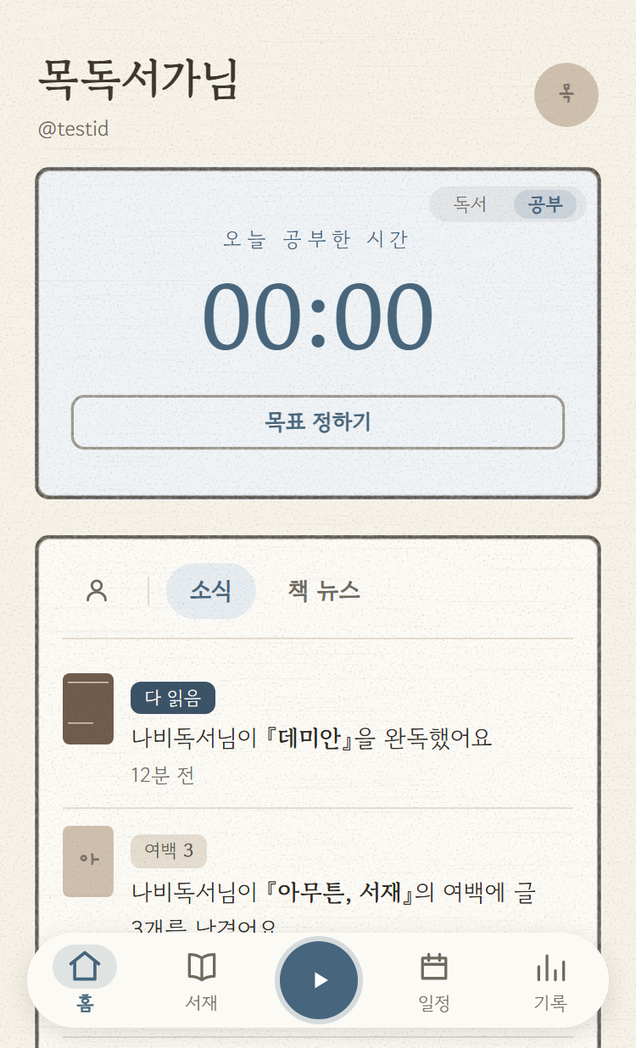
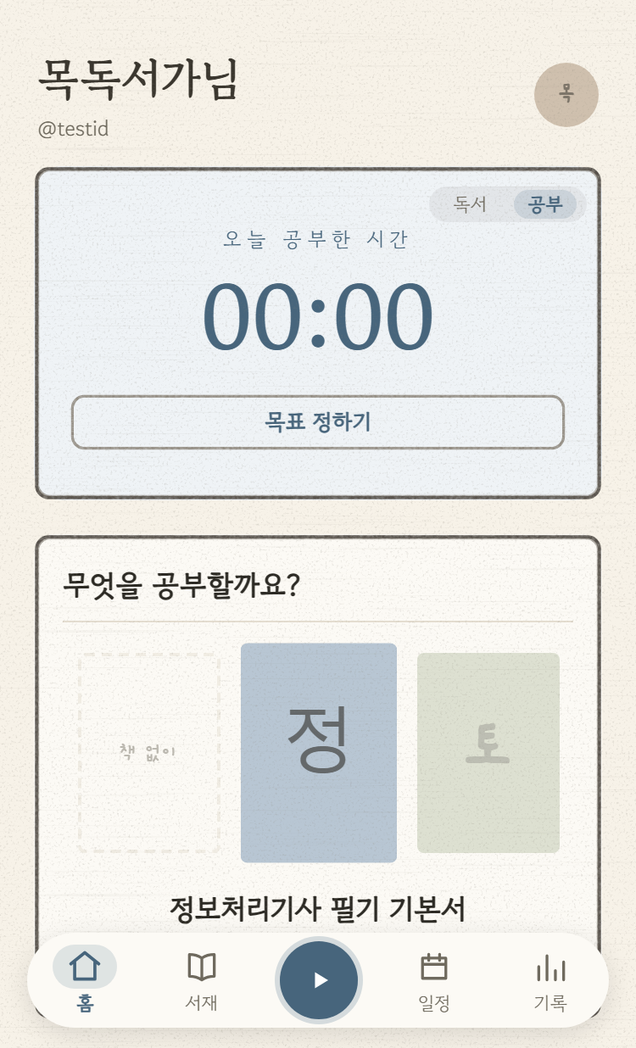
chore(미니앱): 타이머–책 연결 마무리 — 공부 컷 2장 재촬영 + T-218 「무계측 배선」 등재 (#1014)
3개 PR(#1010·#1011·#1013) 머지 뒤의 마감.

- 스토어 컷 06-study-home(「무엇을 공부할까요?」 캐러셀)·07-study-library(「3시간 20분 공부」 칩) 2장 재촬영.
  04·08·10은 날짜 이동분이라 되돌렸고 01·02·03·05는 바이트 동일.
- troubleshooting T-218: 소스 문자열 단언이 「존재」만 봐 돌연변이 8종이 초록으로 생존한 부류(2회차) + 트래커 군 등재.
  T-184 군에 11·12회차(launch.json cwd 함정 · 공용 탭 납치) 병합.
- screenshots/README 06·07 설명 갱신, changelog 한 줄.

Session-Model: claude-fable-5-1

diff --git a/claude-docs/troubleshooting.md b/claude-docs/troubleshooting.md
@@ -43,7 +43,8 @@
 | 규칙을 **설명하는 주석**이 그 규칙의 **소스 문자열 계측**을 깨뜨린다(구현은 옳은데 테스트가 붉어짐) | T-203(css 전환 규칙 → 여백 진입 게이트) · **T-215(plan.md 마커 인용 → 마커 집계)** | **3** | ✅ T-203 등재 + 계측 전 주석 제거를 절차로. ⚠ **3회차는 매체가 다르다** — T-215는 소스 테스트가 아니라 **마크다운 문서의 마커 집계**라, 예고해 둔 `readSourceWithoutComments()` 헬퍼가 애초에 안 맞는다. **그 헬퍼 승격 트리거는 「소스 문자열 계측」 얼굴 기준으로 여전히 2회**이고, 문서 얼굴엔 별도 처방을 박았다(plan.md 머리에 「옛 마커를 산문에 인용할 땐 이모지를 그대로 쓰지 말 것」). 교훈: **같은 뿌리라도 계측기가 사는 곳이 다르면 처방이 갈린다** — 회차만 세고 예고된 승격을 기계적으로 당기면 안 맞는 도구를 만든다 |
 | 배경 탭이 CSS 트랜지션을 얼려 `getComputedStyle`이 보간값을 준다 — 앱 결함으로 위장 | T-196(독서등 토글, 「일부만 낡음」으로 감별) · **T-207(로드 시 발화 — 전부 한 값이라 비대칭이 없고, 얼어붙은 시작값이 UA 기본 검정이라 「전역 스타일이 안 붙었다」로 위장)** | **2** | ⚠ **기존 승격(글로벌 CLAUDE.md 「트랜지션 건 속성은 판정 근거가 못 된다」)이 2회차를 못 막았다** — 그 문구의 감별 신호가 **「값이 일부만 낡았다」는 비대칭**인데, 상속 속성(`color`)에 걸면 화면의 거의 모든 글자가 **같은 값으로** 얼어 비대칭 자체가 없다. 그래서 감별을 관찰에서 **프로브**로 바꾼다: `body.style.setProperty(prop, <새 값>, 'important')` 직후 computed가 **안 움직이면 관측 경로가 얼어붙은 것**이다(1콜·항상 결론, 강제 layout으로는 안 풀리고 스크린샷으로 페인트를 강제해야 풀린다). 두 번째 축은 **트리거**다 — T-196의 프레이밍은 「토글을 눌렀다」인데 T-207은 **페이지 로드**였다(정적 css가 안 잡는 상속 속성을 런타임 주입 스타일이 나중에 바꿈). 그래서 코드 쪽 처방도 한 줄 생겼다: **상속 속성에 트랜지션을 걸면 그 초기값을 정적 css에서 확정한다**(로드 시 발화 제거 = 계측 신뢰도 회복 + 실사용자의 로드 페이드 제거). 훅 승격 불가(관측 시점 문제라 정적 감지 대상이 아님) |
 
-| 브라우저 자동화의 CDP 명령이 타임아웃 — 원인이 코드가 아니라 그 탭·패널의 상태다 | T-154(클로드 내부 패널 미개방) · T-179(데스크톱 크롬 기기 모드) · T-184(같은 탭 재사용, 입력에 더해 **스크린샷까지**) · 4회차(2026-08-19, T-184 후일담에 병합 — 새 탭으로 시작했는데도 도중에 상함) · 5회차(2026-08-19 독서등 검증, 같은 후일담에 병합 — 새 탭도 몇 번 만에 상해 **재발률이 낮지 않음**이 굳어짐) · 6·7회차(2026-08-19·20, 같은 후일담에 병합 — **새 절차가 두 번 연속 값을 했다**: 판정 수치를 먼저 뽑아 둬 잃은 것이 그림뿐이었다) · 8회차(2026-08-20 기록 더미, 같은 후일담에 병합 — 세 번째로 값을 했고, 이번엔 **그림을 얻고 나서 죽어** 손해가 0이었다) · **9회차(2026-08-20 둘러보기 화면, 같은 후일담에 병합 — 처음으로 탭 교체가 안 통했고 내부 브라우저 대체 경로도 T-154로 동시에 막혀 그림을 끝내 못 얻었다. 판정은 수치 선행 덕에 완결)** · **10회차(2026-08-21 세션 캐시 검증, T-201 — 이번엔 CDP가 상한 게 아니라 **어제 승격한 1순위 표면 자체가 안 떴다**: `chrome-devtools` MCP가 프로필을 배타 점유해 `The browser is already running for …chrome-profile`로 첫 호출부터 즉사. 내부 패널의 **동기 `javascript_tool` 판독**으로 우회해 판정 완결, 그림만 못 얻음)** | 10 | ✅ **예고대로 절차 승격**(CLAUDE.md 「🖥 프론트 검증」) — 검증 시작 시 `tabs_create_mcp`로 **전용 탭을 새로 연다**. ⚠ 4·5회차가 그 절차의 한계를 실측했다: 새 탭으로 시작해도 **세션 도중에 죽는다**. 절차는 유지하되(비용 0) 「한 번 열면 안전」이라는 기대는 버리고, 죽으면 그 자리에서 또 갈아탄다 — 승격 단계를 더 올릴 자리는 아니다(훅으로 감지할 수 있는 대상이 아니고, 재시도 비용이 이미 최소다). 대신 **검증 순서를 바꾸는 것이 값을 한다**: 스크린샷보다 `javascript_tool` 수치 측정을 앞에 두면(CDP를 안 타는 경로) 탭이 상해도 판정 자체는 남는다. ⚠ 3회차가 군 정의를 넓혔다: 「읽기는 되는데 **입력만**」인 줄 알았는데 `Page.captureScreenshot`도 같이 죽었다 — 안 죽는 건 **CDP를 안 쓰는 경로**(`javascript_tool`·콘솔 읽기)라, 판별 기준은 「읽기냐 입력이냐」가 아니라 **「CDP를 타느냐」**다. ⚡ **2026-08-21 — 이 군을 피하는 경로를 찾았다(T-199)**: `chrome-devtools` MCP는 확장과 **별개 크롬·별개 CDP**라 탭이 상하든 패널이 닫혔든 영향을 안 받고, 기기 모드도 `emulate` 명령으로 건다. 9회차가 끝내 못 얻은 그 그림을 첫 시도에 얻었다. 이제 순서는 **확장 1회 갈아타기 → `chrome-devtools` MCP → 수치 마감**이고, 로그인이 필요 없는 화면이면 애초에 `chrome-devtools`가 1순위다(빈 프로필이라 인증 화면엔 못 쓴다). **이 군은 이제 「예상된 비용」에서 「우회 가능」으로 내려간다**. ⚠ **하루 만에 그 1순위의 반례가 나왔다(T-201, 10회차)** — `chrome-devtools`는 전용 프로필을 **배타 점유**해서, 앞선 크롬이 그 프로필을 쥔 채 남아 있으면 첫 호출부터 통째로 안 뜬다. 「별개 CDP라 면역」은 **다른 함정에 안 걸린다는 뜻이지 항상 뜬다는 뜻이 아니다**. 그래서 계단이 하나 더 필요하다 — 두 크롬이 다 막히면 **내부 패널의 동기 `javascript_tool` 판독**이 마지막 수단이다(합성이 죽어도 동기 JS 실행·텍스트 읽기는 살아 있다). 결론은 9회차와 같다: **판정 수치를 먼저 뽑고 그림은 나중에** 두면, 어느 표면이 죽어도 잃는 건 그림뿐이다. 🌍 **2026-08-21 글로벌 승격** — 전 프로젝트 재발 스캔에서 boardgame-hub에도 같은 군이 2건(T-003 `visibilityState` 정지 · T-008 클릭·스크린샷·타이머 동시 사망) 발견돼 **2개 프로젝트 11회**가 됐다. 규칙 본체를 글로벌 `~/.claude/CLAUDE.md` 「🖥 브라우저 확인」으로 올리고, 이 레포 CLAUDE.md엔 포인터 + 고유분(목 모드 포트·스토어 스크린샷)만 남겼다. ⚡ **합치면서 우리가 몰랐던 절반이 붙었다** — 같은 원인이 스크린샷·클릭만 죽이는 게 아니라 **`setTimeout`/`setInterval`을 스로틀링하고 `document.visibilityState`를 `'hidden'`으로 만들어 앱 폴링까지 설계대로 멈춘다**(그래서 "화면이 굳었다"로 보이고 앱 버그로 오진한다). 우회는 게터 덮어쓰기 |
+| 소스 문자열 단언이 공허하다 — 「존재」만 봐서 선언문·머리 호출·목 우회에 걸려 배선을 지워도 초록(무계측 배선) | 1회차(2026-09-01 공부 서재 PR-2 리뷰 W3 — 항목 없이 changelog에만, 「무계측 배선」이라 이름만 붙임) · **T-218(2회차, 2026-09-02 타이머–책 연결 3개 PR 리뷰에서 8종 생존)** | 2 | 소프트 — T-218 재발방지 ①~③(건수·전체 인자열 · 돌연변이는 리뷰어가 고른다 · 목 왕복은 클라 함수 경유). **3회째면 CLAUDE.md 「미니앱 테스트 하니스」 절에 승격**(정적 감지 불가라 훅은 아님) |
+| 브라우저 자동화의 CDP 명령이 타임아웃 — 원인이 코드가 아니라 그 탭·패널의 상태다 | T-154(클로드 내부 패널 미개방) · T-179(데스크톱 크롬 기기 모드) · T-184(같은 탭 재사용, 입력에 더해 **스크린샷까지**) · 4회차(2026-08-19, T-184 후일담에 병합 — 새 탭으로 시작했는데도 도중에 상함) · 5회차(2026-08-19 독서등 검증, 같은 후일담에 병합 — 새 탭도 몇 번 만에 상해 **재발률이 낮지 않음**이 굳어짐) · 6·7회차(2026-08-19·20, 같은 후일담에 병합 — **새 절차가 두 번 연속 값을 했다**: 판정 수치를 먼저 뽑아 둬 잃은 것이 그림뿐이었다) · 8회차(2026-08-20 기록 더미, 같은 후일담에 병합 — 세 번째로 값을 했고, 이번엔 **그림을 얻고 나서 죽어** 손해가 0이었다) · **9회차(2026-08-20 둘러보기 화면, 같은 후일담에 병합 — 처음으로 탭 교체가 안 통했고 내부 브라우저 대체 경로도 T-154로 동시에 막혀 그림을 끝내 못 얻었다. 판정은 수치 선행 덕에 완결)** · **10회차(2026-08-21 세션 캐시 검증, T-201 — 이번엔 CDP가 상한 게 아니라 **어제 승격한 1순위 표면 자체가 안 떴다**: `chrome-devtools` MCP가 프로필을 배타 점유해 `The browser is already running for …chrome-profile`로 첫 호출부터 즉사. 내부 패널의 **동기 `javascript_tool` 판독**으로 우회해 판정 완결, 그림만 못 얻음)** · **11·12회차(2026-09-02 타이머–책 연결, T-218 ④에 병합 — 이번엔 탭이 상한 게 아니라 **엉뚱한 서버를 보고 있었다**: `preview_start`가 `.claude/launch.json`을 세션 cwd에서 찾아 남의 워크트리 vite를 5300에 띄운 것 + 다른 세션이 공용 `seed` 탭을 자기 포트로 돌린 것. 둘 다 「내 변경이 화면에 없다」로 나왔고 `fetch('/src/<파일>')`의 신규 ASCII 식별자 유무로 갈랐다)** | 12 | ✅ **예고대로 절차 승격**(CLAUDE.md 「🖥 프론트 검증」) — 검증 시작 시 `tabs_create_mcp`로 **전용 탭을 새로 연다**. ⚠ 4·5회차가 그 절차의 한계를 실측했다: 새 탭으로 시작해도 **세션 도중에 죽는다**. 절차는 유지하되(비용 0) 「한 번 열면 안전」이라는 기대는 버리고, 죽으면 그 자리에서 또 갈아탄다 — 승격 단계를 더 올릴 자리는 아니다(훅으로 감지할 수 있는 대상이 아니고, 재시도 비용이 이미 최소다). 대신 **검증 순서를 바꾸는 것이 값을 한다**: 스크린샷보다 `javascript_tool` 수치 측정을 앞에 두면(CDP를 안 타는 경로) 탭이 상해도 판정 자체는 남는다. ⚠ 3회차가 군 정의를 넓혔다: 「읽기는 되는데 **입력만**」인 줄 알았는데 `Page.captureScreenshot`도 같이 죽었다 — 안 죽는 건 **CDP를 안 쓰는 경로**(`javascript_tool`·콘솔 읽기)라, 판별 기준은 「읽기냐 입력이냐」가 아니라 **「CDP를 타느냐」**다. ⚡ **2026-08-21 — 이 군을 피하는 경로를 찾았다(T-199)**: `chrome-devtools` MCP는 확장과 **별개 크롬·별개 CDP**라 탭이 상하든 패널이 닫혔든 영향을 안 받고, 기기 모드도 `emulate` 명령으로 건다. 9회차가 끝내 못 얻은 그 그림을 첫 시도에 얻었다. 이제 순서는 **확장 1회 갈아타기 → `chrome-devtools` MCP → 수치 마감**이고, 로그인이 필요 없는 화면이면 애초에 `chrome-devtools`가 1순위다(빈 프로필이라 인증 화면엔 못 쓴다). **이 군은 이제 「예상된 비용」에서 「우회 가능」으로 내려간다**. ⚠ **하루 만에 그 1순위의 반례가 나왔다(T-201, 10회차)** — `chrome-devtools`는 전용 프로필을 **배타 점유**해서, 앞선 크롬이 그 프로필을 쥔 채 남아 있으면 첫 호출부터 통째로 안 뜬다. 「별개 CDP라 면역」은 **다른 함정에 안 걸린다는 뜻이지 항상 뜬다는 뜻이 아니다**. 그래서 계단이 하나 더 필요하다 — 두 크롬이 다 막히면 **내부 패널의 동기 `javascript_tool` 판독**이 마지막 수단이다(합성이 죽어도 동기 JS 실행·텍스트 읽기는 살아 있다). 결론은 9회차와 같다: **판정 수치를 먼저 뽑고 그림은 나중에** 두면, 어느 표면이 죽어도 잃는 건 그림뿐이다. 🌍 **2026-08-21 글로벌 승격** — 전 프로젝트 재발 스캔에서 boardgame-hub에도 같은 군이 2건(T-003 `visibilityState` 정지 · T-008 클릭·스크린샷·타이머 동시 사망) 발견돼 **2개 프로젝트 11회**가 됐다. 규칙 본체를 글로벌 `~/.claude/CLAUDE.md` 「🖥 브라우저 확인」으로 올리고, 이 레포 CLAUDE.md엔 포인터 + 고유분(목 모드 포트·스토어 스크린샷)만 남겼다. ⚡ **합치면서 우리가 몰랐던 절반이 붙었다** — 같은 원인이 스크린샷·클릭만 죽이는 게 아니라 **`setTimeout`/`setInterval`을 스로틀링하고 `document.visibilityState`를 `'hidden'`으로 만들어 앱 폴링까지 설계대로 멈춘다**(그래서 "화면이 굳었다"로 보이고 앱 버그로 오진한다). 우회는 게터 덮어쓰기 |
 | Windows aws CLI ↔ 한글 = CP949 치명 실패(요청 paramfile 디코드 불가 · 응답 인코드 불가) | (요청 방향: 2026-08-18 정기작업 지시서에 선기록) · T-186(응답 방향) | 2 | ⚠ prose(T-186) — **한 방향만 막으면 반대 방향에서 또 밟는다**. 지시서가 「요청 JSON에 한글 넣지 마라」를 이미 못 박아 뒀는데도, 응답에 한글이 실려오는 것까지는 안 적혀 있어 그대로 죽었다. 해법이 양방향 공통(원격에서 `base64 -w0` → 로컬 디코드)이라 규칙도 **"aws CLI와는 ASCII만 주고받는다"** 한 줄로 합친다. hookify warn 후보 = `aws ssm send-command`에 `base64` 부재 시 경고 — 빈도가 낮아 보류, 3회차에 승격 |
 | 목 픽스처가 서버 계약을 재현 못 해 **정상 경로가 목에서만 실패**(자기모순 → 기능 확장 뒤 협소) | T-175(1회차 자기모순 · 2회차 책축 경로 누락) | 2 | ⬜ 미승격 — 발견 지점이 브라우저 수동 게이트뿐이라 훅·정적 검사로 못 잡는다. 3회차면 「목↔서버 계약 대조 테스트」 도입 검토 |
 
@@ -2717,3 +2718,4 @@ git worktree remove ../BookTimer-<task>
 | 2026-08-25 | T-215 (**닫은 항목의 옛 마커를 산문에 「인용」하면 그 이모지가 다음 감사의 집계에 그대로 잡힌다 — 설명이 계측 대상이 된다** / **3회차(T-203 군)** / 증상: plan.md 마커 감사에서 `🔜` 8건을 닫고 재집계했더니 **8이 아니라 10**이 나왔다. 남은 두 줄을 열어 보니 둘 다 내가 방금 쓴 문장이었다 — 「이 헤더는 2026-08-25까지 「진행 중 🔜 …」였다」와 「문의 대기 🔜로 일주일 넘게 남아 있었다」. **닫았다는 사실을 설명하려고 옛 마커를 그대로 인용한 것이 유령 항목 2건을 만들었다.** 다음 감사가 이 줄을 열어 보고서야 「아, 이건 인용이네」를 알게 되는데, 그 확인 비용이 정확히 감사가 없애려던 비용이다. / 원인: 마커 감사의 계측기는 **파일 전체에 대한 이모지 grep**이다. 그 계측기에겐 「할 일을 가리키는 마커」와 「마커를 설명하는 인용」이 구별되지 않는다 — 둘 다 같은 코드포인트다. T-203과 같은 뿌리다: 거기선 규칙을 **설명하는 주석**이 그 규칙의 소스 문자열 계측에 걸렸고, 여기선 마커를 **설명하는 산문**이 마커 집계에 걸렸다. ⚠ **좋은 문서일수록 위험하다**는 성질까지 같다 — 「무엇이 왜 낡았는가」를 친절히 남길수록 옛 마커를 인용할 이유가 생긴다. / 해결: 인용을 **말로 풀었다**(`🔜` → 「다음 할 일 마커」·「다음-할-일 마커를 달고」). 이모지를 지우는 것이 아니라 **의미는 남기고 코드포인트만 뺀다**. 그리고 이 함정을 plan.md **머리**에 못 박았다 — 마커가 세 어휘(`⬜`·`🔜`·마커 없는 `- [ ]`)라는 사실과 나란히 둬서, 다음 감사자가 세는 법과 함정을 한자리에서 읽게 했다. / 재발방지: ① **문서의 마커·토큰을 산문에서 인용할 땐 그 문서를 세는 계측기가 무엇인지 먼저 생각한다** — 세는 대상과 같은 문자를 쓰면 인용이 곧 오염이다. ⚠ **다만 「전부 빼라」는 틀렸다 — 이 항목을 쓰는 중에 그걸 배웠다.** plan.md 머리에 「마커는 세 어휘다」라는 **범례**를 박으면서 마커 문자를 또 2개 심었고, 재집계가 23이 아니라 25로 나왔다. 그런데 범례는 마커를 **실물로 보여 줘야** 쓸모가 있어 뺄 수가 없다. 그래서 처방이 둘로 갈린다: **실물이 필요 없는 인용은 말로 풀고(유령), 실물이 필요한 범례는 남기되 「집계에서 뺄 개수」를 그 자리에 상수로 적는다.** 후자는 결함이 아니라 **명시해야 할 오프셋**이다. ② **닫는 작업 뒤엔 반드시 재집계한다** — 이 건은 「9건 닫았다」로 끝냈으면 영영 몰랐고, 세어 보니 숫자가 안 맞아 드러났다. **닫은 개수를 세지 말고 남은 개수를 세라**(전자는 내 주장, 후자는 파일의 상태다). ③ ⚠ **T-203 트래커에 예고된 `readSourceWithoutComments()` 헬퍼 승격을 이 회차로 당기지 않는다** — 그 헬퍼는 「소스 파일 + 주석」 얼굴을 위한 것이라 마크다운 마커 집계엔 안 맞는다. 그 얼굴은 여전히 2회차다. **같은 뿌리라도 계측기가 사는 곳이 다르면 처방이 갈린다** — 회차만 세고 예고된 승격을 기계적으로 당기면 안 맞는 도구가 나온다. ④ 훅 승격 불가 — 「이 이모지가 마커인가 인용인가」는 정적 판정 대상이 아니다(같은 문자다). / **관련**: T-203(같은 뿌리·다른 매체 — 소스 주석 ↔ 문서 산문) · T-211(낡은 문장 군 — 이번 감사가 그 군을 닫으려다 이 함정을 밟았다) · T-212(계측기가 대상을 안 잡아도 초록 — 이쪽은 반대로 **안 잡아야 할 것을 잡는다**)) |
 | 2026-08-29 | T-216 (**TDS `Text`의 `style.textAlign`은 DOM에 안 실린다 — 정렬이 조용히 왼쪽에 남고, 같은 함정이 5곳에 흩어져 있었다** / **2회차(T-198 재발)** / 증상: 미니앱 5곳에서 `<Text style={{ textAlign: 'center' }}>`로 준 가운데 정렬이 화면에선 왼쪽이었다. 에러도 경고도 없다 — **무성 실패**다. 목 모드 실측(390×844@3x, 2026-08-29): 서재 빈 탭 안내 2곳 · 「모두의 여백」 빈 목록 · 개인 여백 빈 목록이 모두 computed `text-align: start`. ⚠ **T-198이 이미 이 함정을 등재해 뒀는데도 다섯 자리가 그대로 남아 있었다** — 1회차가 자기 한 곳만 고치고 **같은 패턴의 나머지를 훑지 않아서**다. / 원인: TDS `Text`는 `style`을 그대로 넘기지 않고 **키를 골라 싣는다** — `textAlign`은 걸러지고 `display`는 자기 값(`inline-block`)으로 덮인다. `wordBreak`·`lineHeight`·`color`·`marginTop`·`padding`은 통과한다(#988 probe 렌더 실측). / 해결: **바깥에 평범한 div를 두고 그 div가 `textAlign`을 갖는다**(`Goal.tsx:152~162` 선례 — 헬퍼 컴포넌트를 만들 일이 아니다). 블록 배치용 키(`marginTop`·`padding`)는 div로 옮기고 글자 속성(`wordBreak`)만 `Text`에 남긴다. ⚠ **부모가 이미 `textAlign: center`면 래퍼를 새로 만들지 않는다** — `Library.tsx` 격자 제목이 그 경우라(셀 div·button이 이미 가운데) 실측이 `center`였고, **죽은 키만 지웠다**. 실측 없이 소스만 보고 고쳤으면 쓸모없는 래퍼를 하나 더 만들 뻔했다. / 재발방지: ① **T-198의 「단위 테스트가 원리상 못 잡는다」는 틀렸다 — 이 회차가 반증했다.** 그 말은 정렬을 `Text`에 주던 시절엔 맞았지만(걸러져서 마크업에 안 찍히니 단언할 대상이 없다), **고친 뒤엔 래퍼 div의 `text-align:center`가 정적 마크업에 그대로 남는다** — 즉 **해결 형태를 계측**하면 된다. ⚠ 단 두 번 공허했다: ⓐ 통짜 `toContain('text-align:center')`는 같은 페이지의 격자 셀·탭 줄에 걸려 **수정 전에도 통과**하고, ⓑ 글자 수 창(`at-200`·`at-400`)은 TDS가 `Text` 앞에 끼워 넣는 `<style>` 블록에 먹혀 400자로도 래퍼에 못 닿는다. 판별력이 생긴 형태는 **문구를 가장 가까이 감싼 div**뿐이다: `markup.slice(markup.lastIndexOf('<div', at), at)`. ② **이 함정을 하나 만나면 그 자리만 고치지 말고 리포 전체에서 `<Text` + `textAlign`을 훑는다** — 1회차가 그러지 않아 2회차가 5곳으로 자랐다. ③ 훅 승격 불가 — 「이 `textAlign`이 죽은 키인가」는 부모의 상속까지 봐야 정해져 정적 판정 대상이 아니다. ④ **후일담(2026-08-30) — 「죽은 키」 판정도 실측 없이는 틀린다.** 이 회차가 스윕에서 「`Home.tsx:809`의 `textAlign: 'left'`는 기본값과 같아 동작이 없다」고 적고 남겨 뒀는데, **틀렸다** — 그 자리는 `<button>` 안이고 **UA 기본 스타일이 `button { text-align: center }`**라, 걸러진 `'left'`가 되돌리려던 것이 바로 그 가운데 정렬이었다(목 모드 실측: 제목·버튼 computed 모두 `center`). 즉 **래퍼가 필요없다는 판정(위 ⚠ 격자 제목)과 죽은 키라는 판정은 근거가 다르다** — 전자는 부모가 원하는 값을 이미 갖고 있어서고, 후자는 부모의 값이 우연히 같아서다. **지우기 전에 부모의 computed를 잰다.** 처방은 `<button>`이면 래퍼를 새로 만들지 말고 **버튼 자신에게 `textAlign`을 준다**(리포의 다른 버튼 5곳이 이미 그 관례다 — `Home.tsx:864`·`Explore.tsx:169`·`Library.tsx:1014`·`Story.tsx:1287`·`ui.tsx:772`). 이 군은 위 「맨 `<button>`의 UA 기본값이 안쪽 콘텐츠로 샌다」(T-177·T-178)와 **교차**한다 — TDS가 키를 걸러 UA 기본이 드러나는 자리다. / **관련**: T-198(1회차 — 기록 화면 `textAlign: 'right'`) · T-144(TDS 주입 CSS로 정적 마크업 단언이 공허해짐 — ⓐ가 그 얼굴이다) · T-149(공허한 테스트 군)) |
 | 2026-09-01 | T-217 (**표시값을 clamp된 파생 상태에서 역산하면 그 clamp가 표시값의 상한이 된다 — 측정 중엔 맞고 「멈추는 순간」에만 틀린다** / **1회차** / 증상: 사용자 제보. 하루 목표 1시간인데 **1시간을 넘겨 계속 읽으면 히어로 숫자가 제대로 올라가다가, 중지하는 순간 정확히 「1시간」으로 바뀐다.** 이어서 읽으면 또 제대로 올라가고 또 중지할 때 1시간이 된다. ⚠ **세션 기록은 내내 정확했다** — 「기록은 맞는데 타이머만 틀리다」는 비대칭이 곧 원인의 지문이다(저장 경로가 아니라 표시 경로의 결함). / 원인: 「오늘 읽은 시간」이 저장된 사실이 아니라 **부채의 역산**이었다. 서버 `WeeklyDebtCalculator`가 `rawDeficit = max(0, 목표 − 읽은 양)`으로 **0에서 바닥**을 치고, 클라(`todayProgress`·`computeProgress`)가 `todayRead = 목표 − 오늘부채`로 되돌리니 표시값이 **목표에서 천장**을 친다 — 즉 서버의 하한 clamp가 화면의 **상한**으로 그대로 옮겨 앉는다. ⚠ **결함이 「멈춘 순간에만」 보인 이유가 핵심이다**: 측정 중엔 클라가 스냅샷에서 경과를 매초 빼(`remainingSeconds - elapsed`) 부채를 음수로 밀기 때문에 역산이 우연히 옳은 값을 낸다. 라이브 보정이 결함을 정확히 상쇄해, **측정 중 화면만 보면 영영 안 보인다.** ⚠ **정보 소실이 겹쳐 클라 단독 수정은 원리상 불가능하다** — 목표 초과분은 backward 재분배로 **과거 날 상환에 소비**되어, 빚을 다 갚은 뒤의 초과분은 응답 어디에도 흔적이 없다. ⚠ 같은 뿌리로 「+N분 더 읽었어요」 배너도 **밀린 빚이 없으면 `overflow = max(0, 목표−목표) = 0`이라 중지 후 뜬 적이 없었다** — 아무도 신고하지 않은 채 죽어 있었다. / 해결: 서버가 이미 계산해 두고 안 보내던 원시값(`DayDebtTrace.readSeconds()`)을 `WeeklyDebt.todayReadSeconds`로 실어 `DashboardModel.LiveState` **한 곳**을 지나게 했다 — 그 배선점 하나로 `/api/dashboard`·start·stop 응답이 함께 따라온다. 클라는 `todayRead = todayReadSeconds + 경과`, `achieved = todayRead >= 목표`. **남은시간·게이지는 그대로 부채 스냅샷에서 만든다**(카운트다운은 0에서 멈추는 게 맞다). 진행률은 옛 분자 `목표+밀린−남은`이 `min(읽은, 최대치)`와 **항등**이라 clamp 후 값이 같음을 확인하고 옮겼다. / 재발방지: ① **표시값이 「사실」인지 「파생」인지 먼저 가른다** — 파생이면 그 원천의 치역이 표시 범위를 덮는지 본다. **한쪽이 clamp된 값에서 역산하는 순간 그 clamp는 화면의 반대쪽 한계가 된다**(하한 → 상한). 원천이 정보를 버리면 역산은 복원이 아니다. ② **라이브 보정이 걸린 화면은 「멈춘 상태」를 따로 검증한다** — 이 결함이 오래 숨은 유일한 이유가 elapsed 보정이 결함을 상쇄한 것이고, 테스트에도 `elapsed = 0`(정지 직후 스냅샷) 케이스가 없었다. 카운트업·카운트다운을 만들면 **측정 중 / 정지 두 상태를 짝으로** 계측한다. ③ ⚠ **픽스처가 파생 관계를 인코딩하고 있으면 그 테스트는 구현을 베낀다** — 기존 테스트 다수가 「읽은 양」을 `remainingSeconds`로만 표현하고 있어서 **옛 역산을 정답으로 못 박은 채 전건 초록**이었다. 서버가 두 값을 짝으로 주는 것이면 픽스처도 짝으로 준다(그러면 짝이 어긋나는 조합 자체를 테스트가 표현할 수 있게 된다). ④ **같은 식이 두 클라이언트에 복제돼 있으면 하나만 고치는 것은 고친 것이 아니다** — 웹 `computeProgress`와 미니앱 `todayProgress`가 같은 역산을 갖고 있어 함께 고쳤다(T-216 ②와 같은 처방: 한 자리를 만나면 리포 전체를 훑는다). ⑤ 훅 승격 불가 — 「이 표시값이 역산인가」는 정적 판정 대상이 아니다. / **관련**: N-059(소급 함정 — 표시 상태를 **가변 파라미터**에서 매번 재유도하면 파라미터를 건드릴 때 과거 판정까지 다시 쓰인다. 같은 뿌리의 **시간축** 얼굴이고, 이쪽은 **치역** 얼굴이다. 다만 그건 학습노트라 이 표의 회차엔 안 센다) · T-212(계측기가 대상을 안 잡아도 초록 — 이쪽은 계측기가 **틀린 정답을 못 박은** 채 초록이었다) · T-216(같은 함정이 여러 자리에 흩어져 1회차가 자기 자리만 고친 군)) |
+| 2026-09-02 | T-218 (**소스 문자열 단언은 「존재」가 아니라 「건수·전체 인자열」로 잡는다 — `toContain('식별자')`는 선언문에 걸려 배선을 통째로 지워도 초록이다(무계측 배선)** / **2회차(2026-09-01 공부 서재 PR-2 리뷰 W3 재발 — 그때는 이름만 붙였고 이번에 부류로 굳었다)** / 증상: 타이머–책 연결 3개 PR(#1010·#1011·#1013)의 독립 리뷰가 돌연변이를 재주입하자 **8종이 전 스위트 초록인 채 생존**했다 — App→MainTabs 프롭 전달을 통째로 지워도(`toContain('setStudyBookId')`가 `useState` **선언문**에 걸려 통과), `timerStartBookId(…)`의 셋째 인자를 독서 슬롯 `homeBookId`로 바꿔도(`toContain('startStudy(timerStartBookId(')`가 여는 괄호까지만 재서 통과 — 설계가 「그럴듯한 사고 ②」로 이름까지 붙인 결함이고 `tsc`도 통과), 와이어 키 `bookId`→`book`으로 바꿔도(목 왕복 테스트가 `mockRequest`를 직접 불러 클라이언트 함수의 body를 한 번도 안 지남), 홈 기본 선택 호출을 `null`로 굳혀도, 교체 성공 경로의 `onStudyChange(next)`·교체 토스트의 `mode`·`body.study-mode`의 `--accentPill` 선언을 지워도 초록이었다. 구현자는 매 PR 돌연변이 4~5종을 「전부 사살」로 보고했는데 **자기가 고른 돌연변이만 죽였을 뿐** 리뷰어가 고른 것은 살아 있었다. / 원인: 정적 렌더 하니스(jsdom 없음, T-149)라 배선을 **소스 문자열**로 잠그는데, 그 단언이 ① 식별자 **존재**만 봐서 선언문·다른 호출부에 걸리고 ② 호출의 **머리만** 봐서 인자 교체를 못 보고 ③ 목 왕복이 클라이언트 함수를 **우회**해 전송 형태를 안 보며 ④ 순수 함수 테스트는 「화면이 그 함수를 부르는지」를 모르고 ⑤ 마크업 단언은 `var(--token, 폴백)` 도입 뒤 폴백 리터럴이 늘 실려 되살릴 수 없다. 다섯 다 「테스트가 초록 = 배선이 있다」를 말하지 않는다. / 해결: ① 배선 단언은 **건수**(`match(/setStudyBookId/g)).toHaveLength(2)` = 선언 + 전달)나 **전체 인자열**(`'startStudy(timerStartBookId(study.books ?? [], study.recentBookId ?? null, studyBookId))'`)로 ② 전송 형태는 `api.ts` 소스에서 `request('/api/…', { body: { bookId } })`를 그대로 ③ 화면이 함수를 부르는지는 정적 렌더에 실리는 속성(`data-selected-book`)으로 ④ CSS 토큰은 마크업이 아니라 css 블록 슬라이스에서 **선언 자체**를 단언. 전부 붙인 뒤 같은 돌연변이를 재주입해 **각각 정확히 한 단언만** 죽는 것을 확인했다(주입·되돌림은 grep 건수로 단언). / 재발방지: ① **소스 문자열 단언을 쓸 땐 「이 문자열이 선언문·다른 호출부에도 매치되는가」를 먼저 묻는다** — 매치되면 건수나 전체 호출식으로 좁힌다. ② **돌연변이는 구현자가 아니라 리뷰어가 고른다** — 구현자의 「N종 전부 사살」은 자기 계측기의 사각을 재지 못한다(같은 가정을 공유하므로). 밝은선 리뷰(±150줄)의 돌연변이 재실측이 이 부류를 3개 PR에서 연속으로 잡았다 — 리뷰 게이트의 값이 실측으로 증명된 자리다. ③ 목 왕복 테스트는 **클라이언트 함수(`startStudy`)를 통해** 부른다 — `mockRequest`를 직접 부르면 목이 계약을 아는지만 재고 클라가 계약을 지키는지는 안 잰다. ④ 곁다리(관측 경로 — T-184 군 11·12회차): `preview_start`는 `.claude/launch.json`을 **세션 cwd**에서 찾아 워크트리 세션이면 남의 워크트리 서버를 띄우고, 다른 세션이 공용 `seed` 탭을 자기 포트로 돌린다 — 둘 다 「내 변경이 화면에 없다」로 나온다. 판별은 `location.href` + `fetch('/src/<파일>')`에 신규 **ASCII 식별자** 유무(한글 리터럴은 esbuild가 `\uXXXX`로 이스케이프해 못 쓴다), 처방은 그 워크트리에서 `npm --prefix miniapp run dev:mock -- --port <고유>` + `tabs_create`로 전용 탭. ⑤ 곁다리 2: 리베이스로 두 커밋(행 추가 → 같은 행 보강)을 옮기면 `merge=union`이 초판·최종본을 **둘 다** 남긴다 — 이번 3개 PR에서 **2회** 났다(T-210 재발, 훅이 push에서 막았다). / **관련**: T-149(정적 렌더라 부정 단언 금지 — 이쪽은 긍정 단언도 공허할 수 있다는 후속) · T-212(계측기가 대상을 안 잡아도 초록) · T-184(관측 경로 군) · T-210(changelog union 중복)) |

diff --git a/claude-docs/changelog.md b/claude-docs/changelog.md
@@ -862,3 +862,4 @@
 | 2026-09-02 | **feat(공부): 공부 측정에 책을 붙인다 (PR-1 서버) — V82 `book_id` + start/tag-book/active/book 3문 + 책별 누적 시간** — 공부 서재(V81)가 생겨 연결할 대상이 있는데 타이머엔 대상이 없었다(컬럼도, start 파라미터도, 태깅 문도 0). 독서와 **같은 3단**을 연다(사용자 결정): 시작 시 선택 · 종료 후 태깅 · 측정 중 교체. ① **V82 `study_session.book_id`**(nullable, FK → `study_book`, `ix_study_session_book`) — `on delete set null`을 **안 걸었다**: 메인 스위트는 Hibernate DDL이라 FK 옵션이 거기 없어 두 환경이 갈리고, 맞추려면 `@OnDelete`까지 달아 규칙 출처가 둘이 된다. 대신 독서 선례대로 앱 코드 `unlinkBook`이 푼다(책을 지워도 시간은 남는다 — 당일 합·달력은 `book`을 아예 안 본다). ② **엔티티 가드는 독서 + 하나**: `tagBook`은 null 거부·재태깅 거부에 더해 **진행 중 세션도 거부**한다(재는 도중은 `changeBook`의 문이다 — 독서엔 그 검사가 없지만 같은 실수를 되풀이할 이유가 없다), `changeBook`은 종료 세션 거부·null 허용(「책 없이」 복귀). ③ **API 3문** — `start`가 `@RequestBody(required = false)`인 것이 **하위호환의 핵심**이다: 12차 라이브 번들은 `{}`를, 더 옛 클라이언트는 바디 없이 보내므로 required면 배포 창 동안 공부 시작이 통째로 400이 된다(둘 다 200을 못 박는 테스트 1건). `tag-book`은 책·세션 **이중 IDOR**(둘 다 404 마스킹, 독서 책장의 id도 여기선 404 — 테이블 경계)이고 `active/book`은 세션 좌표가 아예 없어 세션 IDOR이 구조적으로 성립하지 않는다. ④ **응답은 전부 `StudyState`**(래퍼 신설 없음 — 12차 번들이 stop 응답을 `StudyState`로 읽어 감싸면 서버 선배포 창에서 옛 앱의 시계가 NaN이 된다). 맨 뒤 4필드 추가: `activeBook`·`recentBookId`·`books`·`untaggedSessionId`. **태깅 좌표는 stop 응답에서만 non-null**이다 — 대시보드가 최근 미태깅 세션을 실어 오면 앱에 들어올 때마다 시트가 유령처럼 뜬다(start·대시보드가 언제나 null임을 별도 테스트로 못 박음). ⑤ **책별 누적** `StudyBookRow.totalSeconds`(맨 뒤) — 집계 쿼리는 독서 `sumSecondsByBook`과 **글자 그대로 같은 조건**이고 `BookSecondsRow`도 재사용한다(조건이 갈리면 두 화면이 다른 초를 말한다). 0초는 부재라 키가 아예 없고 화면이 칩을 안 그린다. ⑥ **활성 finder를 fetch join으로** 바꿨다(이름·시그니처 유지) — `activeBook.title`을 트랜잭션 밖에서 직렬화하므로 lazy면 그 자리가 예외다. 📍 **RED를 먼저 확인**했다: 엔티티 메서드 없음 → **컴파일 19 errors**, 서비스 15 errors, Flyway 스키마 검증 **`missing column [book_id] in table [study_session]`**(엔티티만 고치고 DDL을 빠뜨리면 메인 스위트는 초록인 채 운영에서만 깨지는 부류라 마이그레이션 테스트가 유일한 계측기다) → 구현 → GREEN. **돌연변이 7종 전부 사살**(주입 여부를 매번 grep 0건으로 단언): `required=false` 제거 → 하위호환 테스트 포함 14건 사망 / `unlinkBook` 제거 → 삭제 테스트만 사망 / `findByIdAndUser`→`findById` → 남의 세션 태깅 404 테스트 + 서비스 2건 사망(남의 기록이 내 책에 붙는다) / `untaggedSessionId` 항상 id → 「책 걸고 stop이면 null」만 사망. ⚠ **독서 경로 diff 0줄 실측**(`ReadingSession*`·`Book`·`BookService` 전부) — `DashboardApiController`는 study 블록 조립 인자 3줄뿐. 검증(보고 시점 재측정): 전체 **2022건 green**(실패·에러 0), 신규 테스트 **46건**. **실서버 왕복도 확인**했다(bootRun + 실 MySQL + Flyway 82개 적용): 로그가 `open-in-view is enabled by default`를 찍은 채 `start {bookId:1}` → `activeBook.title` 정상 직렬화, 대시보드 재조회도 동일, **LazyInitializationException 0건**, 책 걸고 stop → `untaggedSessionId: null`. 끝나고 8080·gradle 데몬·MySQL 컨테이너 전부 반납. ⚠ MockMvc는 `ResponseStatusException`을 HTML 에러 페이지로 렌더해 **문구 자체는 관측이 안 된다**(레포 전체에 그 단언이 없는 이유) — 상태 코드만 잠갔다. 미니앱(PR-2·PR-3)은 별도 PR, 배포는 그 뒤 1회. 🔎 **독립 리뷰 반영 + #1012 합류**: 리뷰 도중 `origin/main`이 「공부 세션 자정 분할」(#1012)로 전진해 **설계 전제(「공부엔 분할이 없다」)가 깨졌다** — 리베이스하며 두 기능을 화해시켰다. ① **조각이 책을 상속**한다(`endSplitAndSave`가 `open.getBook()`을 넘긴다) — 없으면 자정을 넘긴 공부의 둘째 조각이 미태깅이라 **책 칩이 절반만** 센다. ② **태깅 조각 체인을 결국 복제**했다(안 하기로 한 §0 판단이 무효가 됐다): `stop`이 마지막 조각을 돌려주므로 `untaggedSessionId`도 마지막 조각이라, 시각 인접성(`findByUserAndEndedAtAndBookIsNull`)으로 뒤→앞을 걸어 앞 조각까지 붙인다. 독서의 `book.startReading` 전이는 복제 안 함(공부 책엔 상태가 없다). ③ **활성 검사를 책 조회보다 먼저**로 옮겼다 — 순서가 반대면 「이미 재는 중 + 낡은 bookId」가 409가 아니라 404로 나가 클라가 엉뚱한 안내를 한다. ④ **문구 정정 3건**(계측하지 않는 것을 계측한다고 쓰지 않기): 「user 조건이 없으면 남의 시간이 뜬다」는 거짓이고(맵 키·`myBooks` 렌더 때문에 누출 불가, 그 조건은 성능 몫) · fetch join은 OSIV 기본 true라 지금은 **쿼리 1회 절약**이며(끄는 날 예외가 된다) · 한국어 에러 문구는 MockMvc·미니앱 어디에도 도달하지 않으므로 계약은 상태 코드 쪽이다. ⑤ 삭제 테스트에 `flush()` 1줄 — 없으면 delete가 미뤄져 **FK 게이트가 아예 평가되지 않는다**. 리뷰 후 돌연변이 3종 추가 사살(조각 상속 제거 → 3건 사망 / 체인 제거 → 3건 사망 / `recentBookId` `Desc`→`Asc` → 겨눈 1건만 사망). |
 | 2026-09-02 | **feat(미니앱): 공부 타이머–책 연결 PR-2 — 홈에 「무엇을 공부할까요?」 캐러셀 + 시작 시 책 선택 + 서재 카드 누적 시간 칩** — 공부 타이머엔 대상이 없었다(홈에 고르는 자리가 없고 start API에 파라미터가 없었다). 서재(V81)가 먼저 생겨 연결할 대상이 이제 있으므로 **화면 쪽 3자리**를 연다: ① 공부 홈 대기 화면의 **「무엇을 공부할까요?」 캐러셀**(목록 = `StudyState.books`, 기본 선택 = `recentBookId` → 첫 책 → 「책 없이」 — 독서 `defaultBookId`·`timerStartBookId` **재사용**) ② 시작이 `startStudy(bookId)`로 그 책을 실어 보내고 측정 중 히어로가 **「측정 중 N분 · 『제목』」** ③ 공부 서재 카드의 둘째 칩 **「3시간 20분 공부」**(`studyBookChips` — **0초면 칩을 안 만든다**: 0독은 상태지만 0초는 부재라는 독서 `bookStats` 규약). **선택 슬롯을 독서와 갈랐다**(`studyBookId` ≠ `homeBookId`) — 합치면 두 서재의 id 공간이 섞여, 독서 책 1번을 골라 둔 채 모드가 원격으로 뒤집히면(`effectiveMode`) 공부 서재의 1번이 「고른 책」이 된다. **시작 토스트를 모드 무관 한 공식으로** 바꿨다(`『제목』 + 공부 측정/측정 + 을 시작했어요/으로 바꿨어요`) — 12차 고정 리터럴 「공부 측정을 시작했어요」는 이제 무엇을 재는지 말하지 않는 쪽이라 **계측 대상이 바뀐 것**이고(`study-mode.test` 2건 갱신), **독서 출력은 글자 그대로 유지**됨을 짝 단언으로 잠갔다. ⚠ **독서 경로 diff 0 실측**: `Library.tsx` **0줄**, `Home.tsx`·`App.tsx`의 hunk가 전부 study 갈래·프롭 추가 안이다(홈 삼항의 독서 두 갈래는 바이트 불변). 📍 **RED를 먼저 확인**했다 — 신규 `study-timer-book.test.tsx` **19 failed / 6 passed**(초록 6은 독서 회귀 가드 + 기존 `timerStartBookId`) → 구현 → **25 green**. **돌연변이 5종 전부 사살**(주입 여부를 grep 건수로 단언해 「주입 안 됨 = 초록」 함정 회피): `startStudy(null)` 무인자 회귀 → 배선 단언만 사망 / `studyBookChips`의 `> 0`→`>= 0` → 0초 칩 2건 사망 / 삭제 경로의 `onShelfChanged()` 제거 → 갱신 단언 사망 / 히어로 제목 줄 제거 → 「측정 중 · 제목」 사망 / 목 start의 책 404 검증 제거 → 목 왕복 3건 사망. 검증(보고 시점 재측정): 미니앱 **1352건 green**(31파일, 신규 +27), `tsc -b` 클린, **회귀 게이트 4종**(`home`·`app`·`library`·`typography`) **무수정 통과**. 목 모드 실측(U5·U6): 캐러셀 선택 → ▶ → 「측정 중 4초 · 정보처리기사 필기 기본서」 → 종료 → 서재 카드 **「3독」+「3시간 20분 공부」**, 다른 책(토익)은 **「1독」만**(시간 칩 없음) / `position:fixed && z-index>=99`가 독서·공부 홈 **둘 다 1개**(탭바 `NAV` — 신규 덮개 0, T-183) / 다른 탭에서 시작 시 토스트 「『정보처리기사 필기 기본서』 공부 측정을 시작했어요」. ⚠ **서버(PR-1) 머지 뒤에 머지해야 한다** — 이 브랜치엔 서버 변경이 0줄이고 새 필드는 전부 선택(`?`)이라 옛 서버와도 안 깨지지만, 책을 골라도 서버가 무시하면 화면만 앞선다. ⏸ 종료 후 태깅·측정 중 교체 시트는 PR-3, 스토어 컷 `06-study-home` 재촬영은 PR-3 후 배포 직전. 🔎 **독립 리뷰 반영 4건 — 프로덕션 결함 0, 전부 「계측기가 공허했다」**: 리뷰어가 돌연변이 11종을 재주입해 **4종이 초록으로 생존**했다. ① `toContain('setStudyBookId')`가 `useState` **선언문**에 걸려 App→MainTabs **프롭 전달을 통째로 지워도** 통과 → 개수(2 = 선언 + 전달) + `studyBookId={studyBookId}`로 잠갔다. ② `startStudy(timerStartBookId(`까지만 재서 셋째 인자를 `homeBookId`로 바꾼 **슬롯 혼용**(설계 §6 「그럴듯한 사고 ②」 그 자체)이 **`tsc`도 통과**하며 살아남았다 → **인자열 전체**를 단언. ③ **와이어 키**(`body: { bookId }` → `{ book: bookId }`)가 살아남았다 — 목 왕복 테스트는 `mockRequest`를 직접 불러 `startStudy`의 body를 **한 번도 안 지난다** → `api.ts` 소스 단언 1건. ④ 홈 기본 선택 호출을 `null`로 바꿔도 초록(순수 함수 테스트는 「화면이 그 함수를 부르는지」를 모른다) → `data-selected-book` 렌더 단언 1건. 넷 다 **재주입해 각각 그 단언만 죽는 것을 실측**했고(주입·되돌림은 문자열 건수로 단언), 목 왕복 describe에 `beforeEach` 세션 정리 1줄을 더해 한 건 실패가 다섯 줄로 번지던 연쇄도 끊었다. ⚠ **이 PR 자신의 changelog 수치가 stale이었던 것도 리뷰가 잡았다**(1341/30 → 재측정 1352/31) — 「보고 감사」 규칙이 겨눈 바로 그 결함이다. |
 | 2026-09-02 | **feat(미니앱): 공부 타이머–책 연결 PR-3 — 종료 후 태깅 시트 + 측정 중 [바꾸기] 교체 시트** — PR-2가 「시작할 때 고르기」를 열었으니 독서와 같은 3단의 나머지 둘을 연다. ① **종료 후 태깅** — stop 응답의 `untaggedSessionId`(책 없이 잰 측정에서만 non-null)가 유일한 좌표다. 그 값이 있고 **공부 책이 1권 이상일 때만** 시트를 연다(빈 시트는 닫는 것 말고 할 게 없는 막다른 길 — 독서와 같은 규율). 시트는 `BookSheet` **재사용**이고 독서 전용 의존은 제목 리터럴 하나뿐이라 `title?: string` 프롭 **2줄**로 갈랐다 — **기본값이 옛 리터럴**이라 `home.test`의 「무슨 책을 읽으셨나요?」 단언이 무수정 green인 것이 곧 독서 렌더 불변의 증거다. ② **측정 중 교체** — 시작 토스트의 [바꾸기]가 여는 `ChangeBookSheet`도 재사용하고 재료(`study.books`)·현재 책(`study.activeBook`)만 모드로 갈린다. 측정은 안 멈추고 지금까지 잰 시간이 **통째로** 새 책에 붙는다(`null` = 「책 없이」로 되돌리기). ③ **어느 원장인지는 시트가 열릴 때 못 박는다**(`Untagged.study`) — 매번 `mode`를 다시 보면 시트를 연 채 원격으로 모드가 뒤집혔을 때 공부 세션 id로 독서 문을 두드려 404가 난다. 교체는 재는 도중에만 열려 `mode`가 단일 출처다. ④ **`toastHasBookControls`를 삭제했다** — 공부 토스트에서 표지·[바꾸기]를 가리던 게이트인데, 공부에도 교체 문이 생겨 **항상 참**이 됐다(항상 참인 게이트는 남기지 않는다). 그 자리에서 드러나는 세이지 리터럴 2곳(토스트 [바꾸기] `.16` · 교체 시트 현재 행 `.14`)은 `var(--accentPill, <옛 리터럴>)`로 토큰화했다 — **독서 알파가 .14/.16→.18로 2~4% 진해지는 것이 「독서 diff 0」의 의도된 예외 2건**(대안인 시트 복제 90줄보다 싸다). ⑤ **목**에 `studyLastStopped`(id·bookId·seconds)와 라우트 둘(`tag-book`·`active/book`)을 서버 계약 그대로 넣었다(책 검증이 세션 조회보다 **먼저** — 404 「측정을 찾을 수 없습니다」 / 재태깅 409 「책을 붙일 수 없는 측정입니다」 / 무세션 409 「진행 중인 측정이 없습니다」). 📍 **RED를 먼저 확인**했다 — 신규 절 **18 failed / 26 passed** → 구현 → **1366건 green**(31파일, 신규 +19 · `study-mode.test`의 계측 대상 삭제 −3). **돌연변이 4종 전부 사살**(주입 여부를 grep 건수로 단언): `toastHasBookControls` 게이트 재주입 → 공부 [바꾸기]·accentPill·두 모드 단언 3건 사망 / `tagging.study` 분기를 독서 `tagBook`으로 고정 → 태깅 분기 단언 사망 / `setTagging` 호출 제거 → 2건 사망 / `(next.books ?? []).length > 0` 게이트 제거 → 0권 게이트 단언 사망. **회귀 게이트 5종**(`timer-toast`·`home`·`app`·`library`·`typography`) **무수정 통과**, `Library.tsx` diff **0줄**, `tsc --noEmit` 클린. 목 모드 실측(U8·U9, 390×844 목 포트 5301): 「책 없이」로 시작 → 다른 탭에서 종료 → 시트 제목 **「무슨 책을 공부하셨나요?」**+공부 서재 3권 → 탭 → 시트 닫힘 → 서재 칩 **「14초 공부」** 생성 / 공부 책을 0권으로 만든 뒤 종료하면 **시트가 안 뜬다** / A로 시작 → 토스트 「『정보처리기사 필기 기본서』 공부 측정을 시작했어요」+[바꾸기] **배경 `rgba(95,126,150,0.18)`**(= 공부 `--accentPill`, 세이지 누출 0) → 시트 현재 행도 같은 파랑 → B 선택 → 「『토익 실전 1000제』 공부 측정으로 바꿨어요」 → 홈 **「측정 중 21초 · 토익 실전 1000제」** → 종료 후 시간이 **전부 B에**(A 불변) / 「책 없이」 행이면 홈은 「측정 중 9초」로 제목 없음 / 진입 직후 `position:fixed && z-index>=99`는 **탭바 1개**(신규 덮개 0, T-183 — 시트는 사용자 동작 뒤에만 3개로 뜬다). ⚠ **PR-2(#1010)·PR-1(#1011) 머지 뒤에 머지해야 한다** — 이 브랜치는 PR-2 위에 서 있고 서버 문 둘이 없으면 시트의 탭이 404다. 배포 마커 후보 `--expect "무슨 책을 공부하셨나요?"`. 🔎 **독립 리뷰 반영(코드 결함 0 — 범위 결정 1 + 계측 공백 3)**: ① **서재 칩 즉시 갱신** — 태깅 직후 그 카드가 「1독」에 머물렀다. `StudyLibrary`가 자기 목록을 **마운트 1회**만 받는데 시트는 그 화면 **위에서** 닫히기 때문이고, 측정 중엔 비-홈 탭이 잠겨 **시작한 탭에서 끝나므로 서재 탭에서 시작하면 100% 이 경로**다(범위 밖으로 미룰 자리가 아니었다 — 나는 「관찰」로 적고 넘겼는데 리뷰가 재현해 되돌렸다). 처방은 `MainTabs`의 세대 번호 하나 — `<StudyLibrary key={shelfEpoch}>`를 태깅 성공에 올려 **탭 전환과 같은 remount**를 태운다(그 화면은 한 줄도 안 고친다. 새 프롭·리프레시 배선보다 싸다). ⚠ 부수효과 하나: remount라 **캐러셀 선택이 기본 카드로 돌아간다**(시트를 닫고 보는 화면이라 눈에 덜 띄고, 목록 처음으로 가는 것은 거짓이 아니다). ② **계측 3줄** — 리뷰어 돌연변이 3종이 살아 돌아왔다: 교체 성공의 `onStudyChange(next)` 삭제(홈이 옛 책을 계속 말한다) · 교체 토스트 `mode`를 `'reading'`으로 굳힘(공부가 「공부 측정」이라 말하지 않는다) · `global.css` 공부 블록의 `--accentPill` 선언 삭제(폴백 세이지가 그대로 뜬다 — **삭제된 「세이지 리터럴 없음」 단언이 잡던 것인데, 폴백을 쓰는 이상 마크업엔 리터럴이 늘 실려 그 계측기는 되살릴 수 없다**. 그래서 히어로 카드 틴트와 같은 처방으로 **선언 자체**를 잰다). 셋 다 소스·css 단언 1줄씩으로 잠갔다. 재검증: **1372건 green**(31파일, 신규 +4), `tsc --noEmit` 클린, **돌연변이 4종 전부 재사살**(`setShelfEpoch` 제거 / 교체 `onStudyChange` 제거 / `mode`→`'reading'` / 공부 `--accentPill` 선언 삭제 — 각각 겨눈 1건만 붉어졌다). 목 모드 재실측: **서재 탭에서 시작 → 종료 → 시트에서 토익 탭 → 탭 전환 없이 그 자리에서 「1독 · 7초 공부」**(탭 전엔 「1독」만), 「건너뛰기」면 칩도 카드 선택도 **불변**(세대 번호가 태깅 성공에만 오른다). ⚠ **PR-2 브랜치 리베이스에서 T-210이 실제로 났다** — `merge=union`이 PR-2 행의 초판과 최종본을 **둘 다** 남겨(충돌·테스트 실패 없이) 이 파일에 PR-2 행이 2줄이 됐다. 푸시 전에 세어 초판을 지웠다(`git diff --numstat` = `0 1`). |
+| 2026-09-02 | **chore(미니앱): 타이머–책 연결 마무리 — 공부 컷 2장 재촬영 + T-218 「무계측 배선」 등재** — 3개 PR(#1010·#1011·#1013)이 main에 들어간 뒤의 마감. ① 스토어 컷 `06-study-home`(「무엇을 공부할까요?」 캐러셀이 새로 선다)·`07-study-library`(「3시간 20분 공부」 칩이 새로 선다) **2장만** 재촬영 — `shoot.mjs`는 8장을 통째로 찍지만 `04`·`08`·`10`은 UI가 아니라 **날짜 이동분**(목 픽스처가 오늘 기준)이라 되돌렸고, `01`·`02`·`03`·`05`는 바이트째 동일했다. ② `troubleshooting.md`에 **T-218** — 3개 PR 리뷰에서 소스 문자열 단언이 「존재」만 봐 돌연변이 8종이 초록으로 생존한 부류(공부 서재 PR-2 리뷰 W3의 2회차)를 등재하고 재발 트래커에 군으로 올렸다(3회째면 CLAUDE.md 승격). T-184 군엔 11·12회차(`preview_start`의 launch.json cwd 함정 · 공용 탭 납치)를 병합. ③ README 표의 06·07 설명 갱신. 콘솔 등록·번들 업로드는 별도(사용자 확인 후). |

diff --git a/miniapp/screenshots/README.md b/miniapp/screenshots/README.md
@@ -15,8 +15,8 @@
 | `03-library.png` | 서재 — 상태 탭 + 표지 캐러셀 + 인라인 여백 박스 | 세로 |
 | `04-history.png` | 기록 — 잔디 + 날짜별 기록(여러 권 읽은 첫 날은 펼친 상태) | 세로 |
 | `05-goal.png` | 목표 — 시/분 휠 피커 | 세로 |
-| `06-study-home.png` | 공부 홈 — 「독서\|공부」 토글이 공부로 선 파랑 화면 | 세로 |
-| `07-study-library.png` | 공부 서재 — 「N독」 칩 + 「회독 +1」 채움 버튼 | 세로 |
+| `06-study-home.png` | 공부 홈 — 「독서\|공부」 토글이 공부로 선 파랑 화면 + 「무엇을 공부할까요?」 표지 캐러셀 | 세로 |
+| `07-study-library.png` | 공부 서재 — 「N독」 칩 + 「N시간 공부」 누적 시간 칩 + 「회독 +1」 채움 버튼 | 세로 |
 | `08-study-calendar.png` | 공부 일정 — 월 달력(지킴 원 · 못지킴 테두리 · 측정 점) | 세로 |
 | `10-landscape.png` | 가로형 배너(앱 화면이 아니라 **세로 컷 3장을 얹은 합성물**) | 가로 |
 
